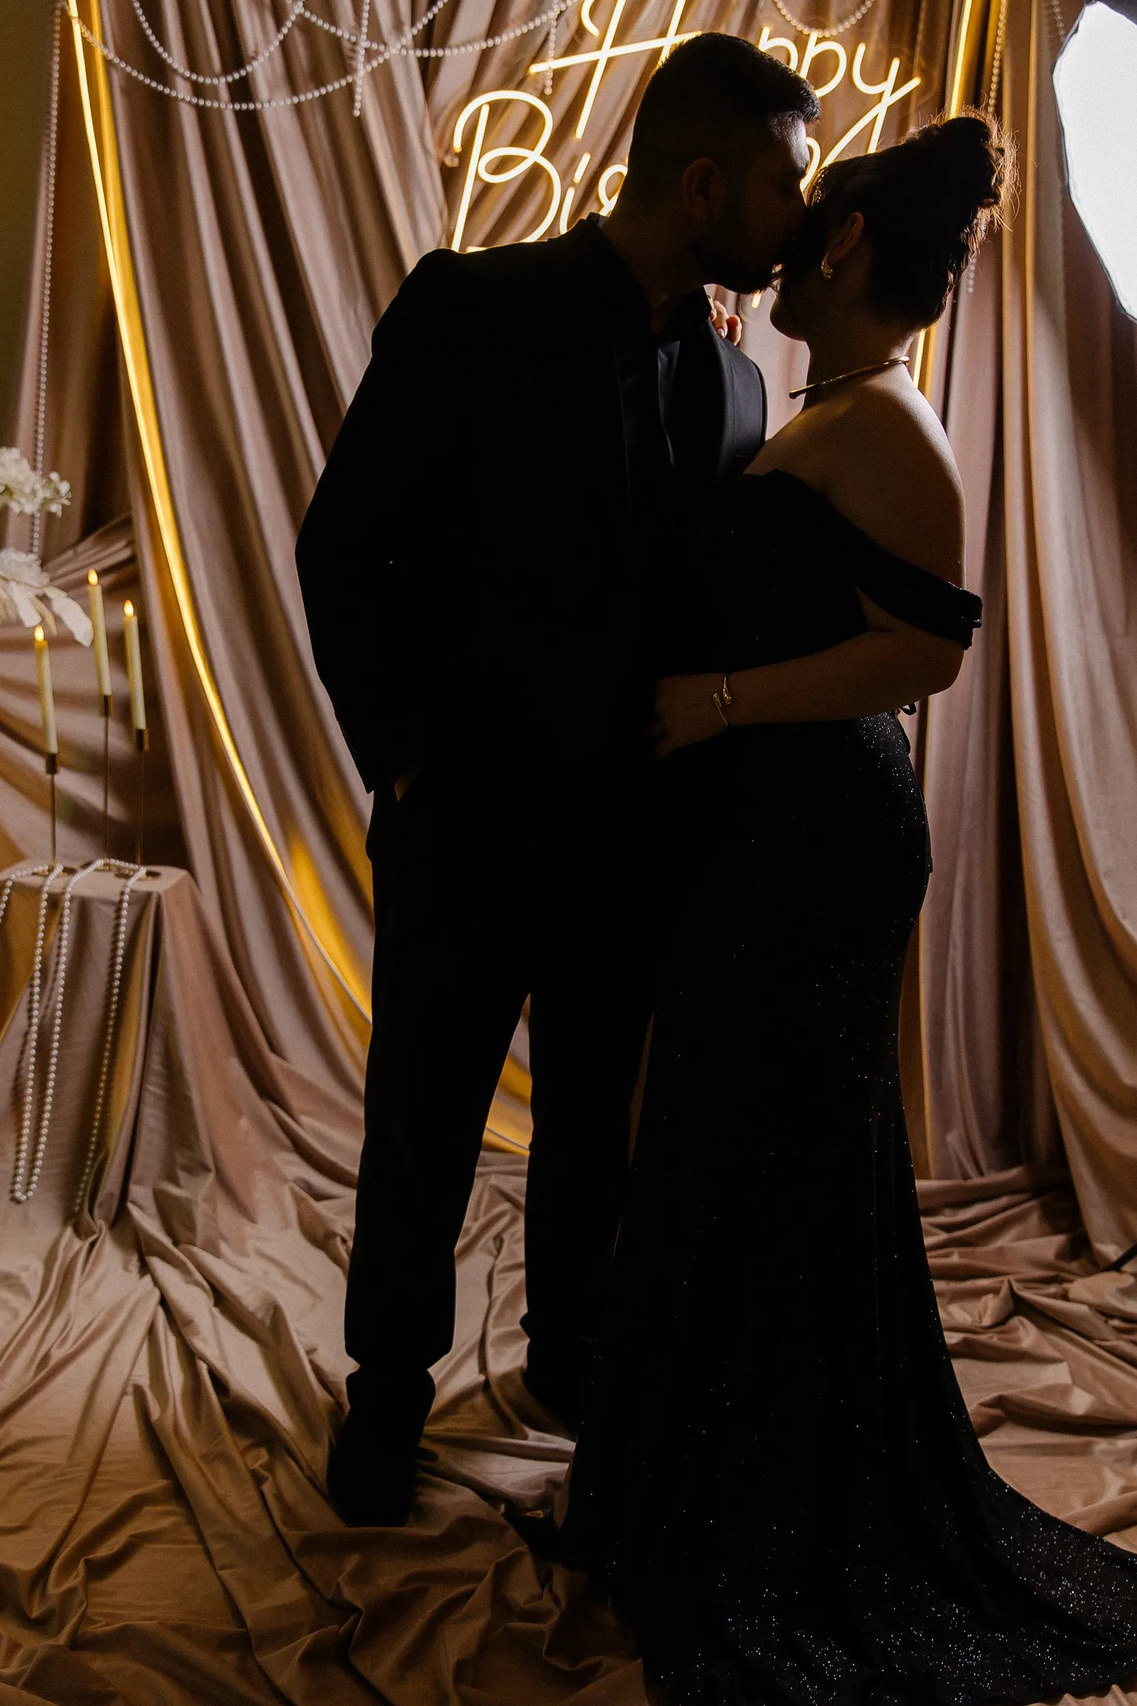
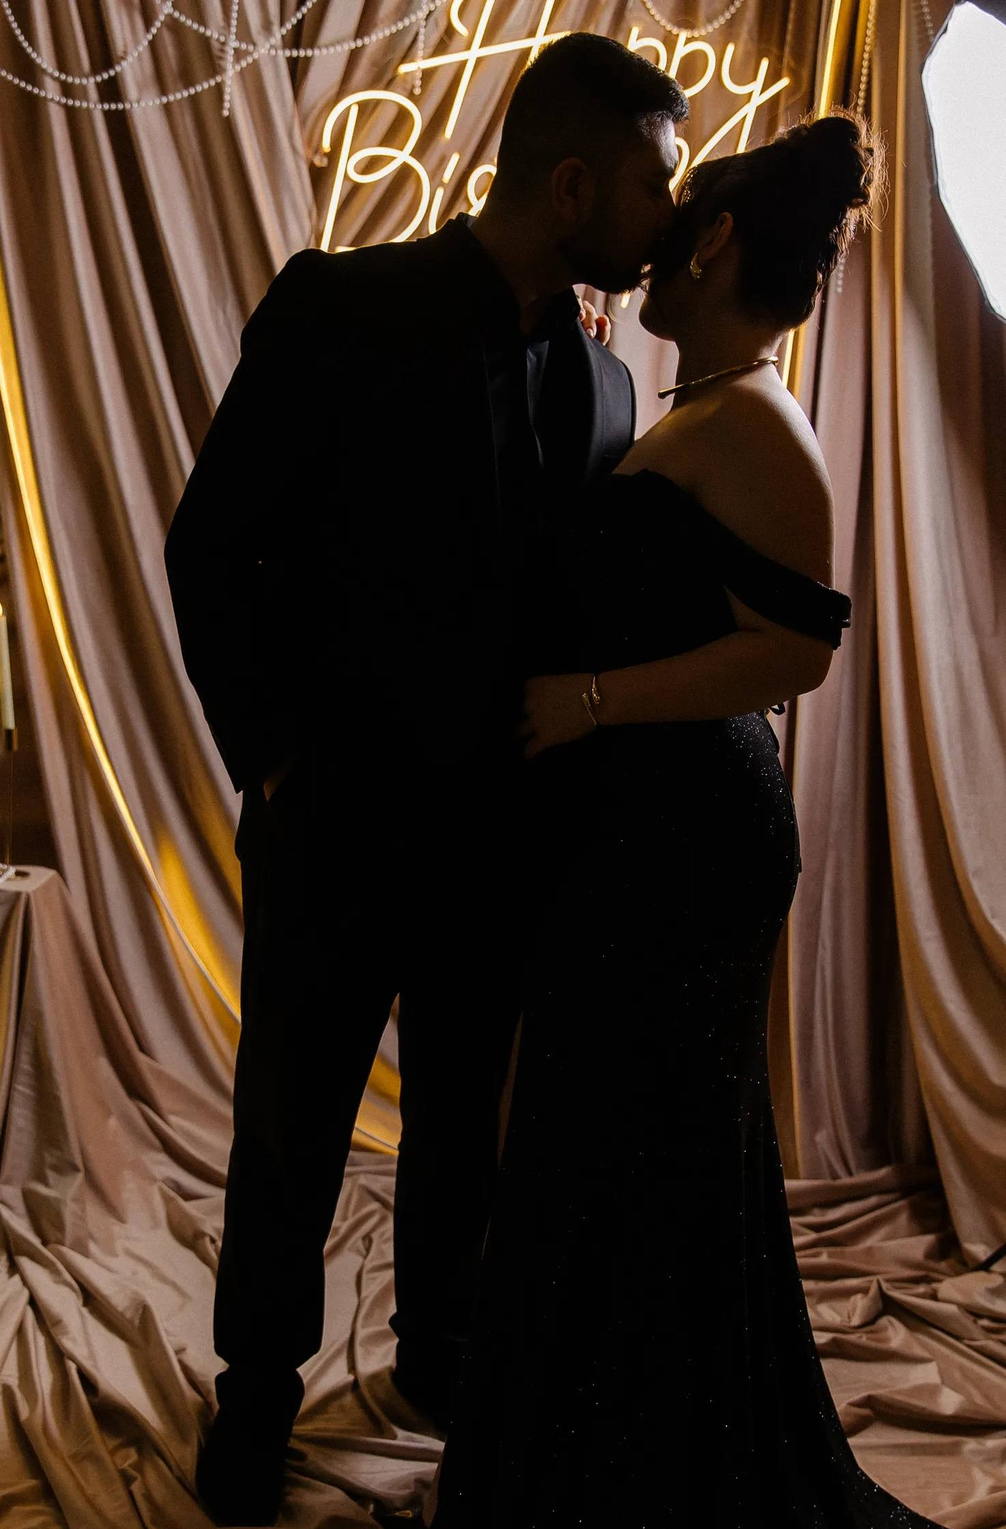
abrc

diff --git a/index.html b/index.html
@@ -3,6 +3,7 @@
 <head>
 <meta charset="UTF-8">
 <meta name="viewport" content="width=device-width, initial-scale=1.0">
+<meta name="robots" content="noindex, nofollow, noarchive">
 <title>Սերգո &amp; Նունե — Հարսանիք / Серго &amp; Нуне — Свадьба</title>
 <meta property="og:title" content="Серго и Нуне — свадебное приглашение">
 <meta property="og:description" content="13 ноября 2026 — приглашаем разделить с нами этот день">
@@ -11,21 +12,21 @@
 <meta name="twitter:card" content="summary">
 <link rel="preconnect" href="https://fonts.googleapis.com">
 <link rel="preconnect" href="https://fonts.gstatic.com" crossorigin>
-<link href="https://fonts.googleapis.com/css2?family=Cormorant+Garamond:ital,wght@0,300;0,400;0,500;0,600;1,300;1,400&family=Playfair+Display:wght@400;500;600&family=Noto+Serif+Armenian:wght@300;400;500;600;700&display=swap" rel="stylesheet">
+<link href="https://fonts.googleapis.com/css2?family=Cormorant+Garamond:ital,wght@0,300;0,400;0,500;0,600;0,700;1,300;1,400;1,500&family=Playfair+Display:wght@400;500;600;700;800&family=Noto+Serif+Armenian:wght@400;500;600;700&display=swap" rel="stylesheet">
 <style>
   *, *::before, *::after { box-sizing: border-box; margin: 0; padding: 0; }
   html { scroll-behavior: smooth; }
 
   :root {
-    --ink: #161513;
-    --charcoal: #0f0e0d;
+    --ink: #4a1420;
+    --charcoal: #2e0c14;
     --paper: #f7f6f2;
     --paper-dim: #efeee9;
     --card: #ffffff;
-    --ash: #7c776c;
-    --ash-soft: #a6a196;
-    --line: #dcd8cf;
-    --line-strong: #161513;
+    --ash: #8a6067;
+    --ash-soft: #b08e93;
+    --line: #e0d5d3;
+    --line-strong: #4a1420;
   }
 
   body {
@@ -64,6 +65,21 @@
   .lang-toggle button.active { background: #f7f6f2; color: #161513; font-weight: 600; }
   @media (max-width: 480px) { .lang-toggle { top: 12px; right: 12px; } .lang-toggle button { padding: 6px 12px; font-size: 13px; } }
 
+  /* ── Music toggle ─────────────────────────── */
+  .music-toggle {
+    position: fixed; bottom: 22px; right: 18px; z-index: 50;
+    width: 48px; height: 48px; border-radius: 50%;
+    background: rgba(74,20,32,0.94); display: flex; align-items: center; justify-content: center;
+    box-shadow: 0 6px 20px rgba(0,0,0,0.22); cursor: pointer; border: none;
+  }
+  .music-toggle svg { width: 20px; height: 20px; fill: #f7f3ee; }
+  .music-toggle .icon-pause { display: none; }
+  .music-toggle.playing .icon-play { display: none; }
+  .music-toggle.playing .icon-pause { display: block; }
+  .music-toggle.playing svg.icon-pause { animation: musicSpin 3.5s linear infinite; }
+  @keyframes musicSpin { from { transform: rotate(0deg); } to { transform: rotate(360deg); } }
+  @media (max-width: 480px) { .music-toggle { bottom: 16px; right: 14px; width: 44px; height: 44px; } }
+
   .invite { max-width: 860px; margin: 0 auto; background: var(--card); }
   @media (min-width: 900px) {
     .invite { margin: 40px auto; border-radius: 4px; overflow: hidden; box-shadow: 0 30px 90px rgba(0,0,0,0.14); }
@@ -88,11 +104,11 @@
   @media (max-width: 480px) { .section { padding: 46px 22px; } }
 
   .eyebrow {
-    font-size: 13px; letter-spacing: 2.5px; color: var(--ash);
+    font-size: 13px; letter-spacing: 2.5px; color: var(--ash); font-weight: 600;
     margin-bottom: 16px; display: inline-block; border-bottom: 1px solid var(--line); padding-bottom: 8px;
   }
   html[data-lang="hy"] .eyebrow { letter-spacing: 0.5px; }
-  .section-title { font-size: clamp(26px, 5vw, 36px); font-weight: 400; color: var(--ink); margin-bottom: 22px; }
+  .section-title { font-size: clamp(26px, 5vw, 36px); font-weight: 600; color: var(--ink); margin-bottom: 22px; }
 
   /* ── Hero ─────────────────── */
   .hero { position: relative; width: 100%; height: 82vh; min-height: 440px; max-height: 620px; overflow: hidden;
@@ -104,29 +120,43 @@
   .hero img { width: 100%; height: 100%; object-fit: cover; object-position: center 22%; display: block; filter: grayscale(100%) contrast(1.05); }
   /* ⬆ object-position: если на реальном фото лица/важная часть обрезаются — поменяйте
      "22%" (0% = верх фото, 50% = центр, 100% = низ фото) под конкретный кадр. */
-  .hero-overlay { position: absolute; inset: 0; background: linear-gradient(to bottom, rgba(0,0,0,0.05) 0%, rgba(0,0,0,0.62) 100%); }
-  .hero-text { position: absolute; bottom: 13%; left: 50%; transform: translateX(-50%); color: #fff; text-align: center; width: 90%; text-shadow: 0 2px 16px rgba(0,0,0,0.55); }
-  .hero-text .eyebrow { color: #e7e5df; border-color: rgba(255,255,255,0.35); }
-  .hero-text .names { font-size: clamp(42px, 10vw, 76px); font-weight: 400; line-height: 1.05; }
-  .hero-text .amp { font-style: italic; font-weight: 300; color: #cfccc3; }
-  .hero-text .date-line { margin-top: 16px; font-size: clamp(14px, 3vw, 17px); letter-spacing: 3px; opacity: .88; }
+  .hero-overlay { position: absolute; inset: 0; background: linear-gradient(to bottom, rgba(0,0,0,0.12) 0%, rgba(0,0,0,0.58) 100%); }
+  .hero-text { position: absolute; inset: 0; color: #fff; text-shadow: 0 2px 16px rgba(0,0,0,0.55); }
+  .mono { position: absolute; font-family: 'Playfair Display', serif; font-weight: 700; line-height: 1; color: #fff; font-size: clamp(70px, 16vw, 150px); }
+  html[data-lang="hy"] .mono { font-family: 'Noto Serif Armenian', serif; }
+  .mono-a { top: 8%; left: 6%; }
+  .mono-b { bottom: 14%; right: 7%; }
+  .vert-names { position: absolute; top: 50%; left: 50%; transform: translate(-50%, -50%) rotate(90deg); white-space: nowrap; font-family: 'Playfair Display', serif; font-size: clamp(18px, 3.6vw, 24px); letter-spacing: 1.5px; font-weight: 700; color: #f7f3ee; }
+  html[data-lang="hy"] .vert-names { font-family: 'Noto Serif Armenian', serif; letter-spacing: 0.5px; }
+  .hero-date { position: absolute; bottom: 6%; left: 50%; transform: translateX(-50%); font-size: clamp(15px, 3vw, 19px); letter-spacing: 3px; font-weight: 600; }
+  @media (max-width: 480px) {
+    .mono { font-size: clamp(56px, 22vw, 96px); }
+    .mono-a { top: 6%; left: 5%; }
+    .mono-b { bottom: 16%; right: 5%; }
+  }
 
-  .greeting p { font-size: clamp(18px, 3.2vw, 22px); color: #3a382f; max-width: 560px; margin: 0 auto; font-style: italic; font-weight: 300; }
+  .greeting p { font-size: clamp(18px, 3.2vw, 22px); color: var(--ink); max-width: 560px; margin: 0 auto; font-style: normal; font-weight: 500; }
   html[data-lang="hy"] .greeting p { font-style: normal; }
   .greeting-rule { width: 40px; height: 1px; background: var(--ink); margin: 26px auto 0; }
 
-  /* ── Calendar ─────────────── */
+  /* ── Calendar (full month grid) ─────────────── */
   .calendar-section { padding: 66px 36px; text-align: center; background: linear-gradient(180deg, #fbfaf7 0%, #efeeea 100%); display: flex; flex-direction: column; align-items: center; }
-  .date-card { display: flex; flex-direction: column; align-items: center; gap: 6px; padding: 42px 58px; background: var(--card); border: 1px solid var(--line); box-shadow: 0 14px 40px rgba(0,0,0,0.10); position: relative; }
-  @media (max-width: 480px) { .date-card { padding: 34px 30px; } }
-  .date-card::before { content: ''; position: absolute; inset: 9px; border: 1px solid var(--ink); opacity: .3; pointer-events: none; }
-  .date-sun { margin-bottom: 6px; color: var(--ash); }
-  .date-month { font-style: italic; font-size: 22px; letter-spacing: 4px; color: #4a473d; margin-bottom: 2px; }
-  html[data-lang="hy"] .date-month { font-style: normal; letter-spacing: 1px; }
-  .date-day { font-family: 'Playfair Display', serif; font-size: clamp(64px, 12vw, 96px); font-weight: 500; line-height: 1; color: var(--ink); }
-  html[data-lang="hy"] .date-day { font-family: 'Noto Serif Armenian', serif; }
-  .date-sub { font-size: 16px; letter-spacing: 2px; text-transform: none; color: var(--ash); margin-top: 6px; }
-  .date-sub .dot { color: var(--ash-soft); padding: 0 6px; }
+  .cal-card { display: flex; flex-direction: column; align-items: center; padding: 40px 30px 34px; background: var(--card); border: 1px solid var(--line); box-shadow: 0 14px 40px rgba(0,0,0,0.10); width: 100%; max-width: 380px; }
+  @media (max-width: 480px) { .cal-card { padding: 32px 16px 26px; } }
+  .cal-month { font-family: 'Playfair Display', serif; font-weight: 700; font-size: clamp(28px, 6vw, 38px); letter-spacing: 4px; color: var(--ink); margin-bottom: 24px; }
+  html[data-lang="hy"] .cal-month { font-family: 'Noto Serif Armenian', serif; letter-spacing: 1px; }
+  .cal-weekdays, .cal-days { display: grid; grid-template-columns: repeat(7, 1fr); width: 100%; }
+  .cal-weekdays { margin-bottom: 14px; }
+  .cal-weekdays span { font-size: clamp(11px, 2.6vw, 13px); font-weight: 600; letter-spacing: 0.5px; color: var(--ash); }
+  .cal-days { row-gap: clamp(10px, 2.8vw, 18px); }
+  .cal-cell { position: relative; font-family: 'Playfair Display', serif; font-weight: 500; font-size: clamp(14px, 3.4vw, 17px); color: var(--ink); display: flex; align-items: center; justify-content: center; height: clamp(28px, 7vw, 34px); }
+  html[data-lang="hy"] .cal-cell { font-family: 'Noto Serif Armenian', serif; }
+  .cal-cell.empty { visibility: hidden; }
+  .cal-cell.highlight { font-weight: 700; }
+  .cal-heart { position: absolute; inset: -6px; color: var(--ink); pointer-events: none; }
+  .cal-heart path { fill: none; stroke: currentColor; stroke-width: 1.3; }
+  .cal-sub { margin-top: 22px; font-size: 16px; letter-spacing: 2px; color: var(--ash); font-weight: 500; }
+  .cal-sub .dot { color: var(--ash-soft); padding: 0 6px; }
 
   /* ── Program timeline ─────────────── */
   .schedule-wrap { max-width: 580px; margin: 0 auto; position: relative; text-align: left; }
@@ -137,7 +167,7 @@
   html[data-lang="hy"] .s-time { font-family: 'Noto Serif Armenian', serif; }
   .s-dot-wrap { flex: 0 0 20px; display: flex; align-items: flex-start; justify-content: center; padding-top: 5px; position: relative; z-index: 1; }
   .s-dot { width: 9px; height: 9px; border-radius: 50%; background: var(--ink); box-shadow: 0 0 0 4px var(--card), 0 0 0 5px var(--line); }
-  .s-desc strong { display: block; font-family: 'Playfair Display', serif; font-size: 17px; font-weight: 500; color: var(--ink); margin-bottom: 3px; }
+  .s-desc strong { display: block; font-family: 'Playfair Display', serif; font-size: 17px; font-weight: 700; color: var(--ink); margin-bottom: 3px; }
   html[data-lang="hy"] .s-desc strong { font-family: 'Noto Serif Armenian', serif; }
   .s-desc span { font-size: 15px; color: var(--ash); }
 
@@ -146,7 +176,7 @@
   .loc-card:first-of-type { border-top: none; }
   @media (max-width: 480px) { .loc-card { padding: 40px 22px; } }
   .loc-tag { font-size: 12px; letter-spacing: 2px; color: var(--ash); margin-bottom: 10px; }
-  .loc-name { font-family: 'Playfair Display', serif; font-size: clamp(21px, 4vw, 26px); font-weight: 500; color: var(--ink); margin-bottom: 8px; }
+  .loc-name { font-family: 'Playfair Display', serif; font-size: clamp(21px, 4vw, 26px); font-weight: 700; color: var(--ink); margin-bottom: 8px; }
   html[data-lang="hy"] .loc-name { font-family: 'Noto Serif Armenian', serif; }
   .loc-address { font-size: 17px; color: #4a473d; margin-bottom: 16px; line-height: 1.55; }
   .map-btn { display: inline-block; padding: 10px 26px; border-radius: 40px; border: 1px solid var(--ink); color: var(--ink); font-family: "Cormorant Garamond", serif; font-size: 15px; letter-spacing: 1.5px; text-decoration: none; transition: background .2s, color .2s; }
@@ -164,7 +194,7 @@
   .countdown { display: flex; justify-content: center; align-items: center; gap: clamp(4px, 2vw, 14px); flex-wrap: nowrap; }
   .countdown-item { text-align: center; }
   .c-ring { width: clamp(44px, 15vw, 84px); height: clamp(44px, 15vw, 84px); border-radius: 50%; background: var(--card); border: 1px solid var(--ink); display: flex; align-items: center; justify-content: center; box-shadow: 0 6px 18px rgba(0,0,0,0.10); flex-shrink: 0; }
-  .c-ring .num { font-family: 'Playfair Display', serif; font-size: clamp(15px, 4.5vw, 32px); font-weight: 500; color: var(--ink); line-height: 1; }
+  .c-ring .num { font-family: 'Playfair Display', serif; font-size: clamp(15px, 4.5vw, 32px); font-weight: 700; color: var(--ink); line-height: 1; }
   html[data-lang="hy"] .c-ring .num { font-family: 'Noto Serif Armenian', serif; }
   .countdown-item .c-label { font-size: clamp(8px, 2.2vw, 12px); letter-spacing: 1px; color: var(--ash); margin-top: clamp(4px, 1.5vw, 10px); white-space: nowrap; }
   .c-divider { color: var(--ash-soft); font-size: clamp(10px, 3vw, 18px); padding-bottom: clamp(12px, 4vw, 24px); flex-shrink: 0; }
@@ -173,13 +203,13 @@
 
   /* ── About us ─────────────── */
   .about-photo-wrap { width: 100%; max-height: 380px; overflow: hidden; }
-  .about-photo-wrap img { width: 100%; height: 100%; object-fit: cover; object-position: center 78%; display: block; filter: grayscale(100%); max-height: 380px; }
+  .about-photo-wrap img { width: 100%; height: 100%; object-fit: cover; object-position: center 42%; display: block; filter: grayscale(100%); max-height: 380px; }
   /* На широких экранах показываем фото целиком, без обрезки */
   @media (min-width: 900px) {
     .about-photo-wrap { background: var(--paper-dim); display: flex; align-items: center; justify-content: center; }
     .about-photo-wrap img { object-fit: contain; object-position: center; }
   }
-  .about-text { max-width: 560px; margin: 0 auto; font-size: 18px; color: #3a382f; }
+  .about-text { max-width: 560px; margin: 0 auto; font-size: 18px; color: var(--ink); font-weight: 500; }
   .about-text p + p { margin-top: 16px; }
 
   /* ── RSVP ─────────────── */
@@ -187,7 +217,7 @@
   @media (max-width: 480px) { .rsvp-wrap { padding: 46px 22px; } }
   .rsvp-card { max-width: 560px; margin: 0 auto; background: var(--paper); border: 1px solid var(--line); border-radius: 4px; padding: 46px 38px; text-align: center; }
   @media (max-width: 480px) { .rsvp-card { padding: 34px 22px; } }
-  .rsvp-title { font-family: 'Playfair Display', serif; font-size: clamp(24px, 4.5vw, 30px); font-weight: 500; color: var(--ink); line-height: 1.3; margin-bottom: 30px; }
+  .rsvp-title { font-family: 'Playfair Display', serif; font-size: clamp(24px, 4.5vw, 30px); font-weight: 700; color: var(--ink); line-height: 1.3; margin-bottom: 30px; }
   html[data-lang="hy"] .rsvp-title { font-family: 'Noto Serif Armenian', serif; }
   .rsvp-form { text-align: left; display: flex; flex-direction: column; gap: 22px; }
   .rsvp-label { display: block; font-size: 15px; color: #333; margin-bottom: 9px; font-weight: 500; }
@@ -222,7 +252,7 @@
     .ending-photo-wrap img { object-fit: contain; object-position: center; }
   }
   .ending-text { padding: 0 32px 66px; text-align: center; background: var(--card); }
-  .waiting { font-size: clamp(32px, 7vw, 52px); font-weight: 400; color: var(--ink); }
+  .waiting { font-size: clamp(32px, 7vw, 52px); font-weight: 700; color: var(--ink); }
   .couple-sig { margin-top: 10px; font-size: 18px; color: var(--ash); letter-spacing: 1.5px; }
   .ending-rule { width: 40px; height: 1px; background: var(--ink); margin: 22px auto 0; }
 </style>
@@ -235,6 +265,13 @@
   <button type="button" id="btn-hy">ՀԱՅ</button>
 </div>
 
+<!-- ⬇ Загрузите файл музыки с именем music.mp3 в ту же папку, где лежит index.html -->
+<audio id="bgMusic" src="music.mp3" loop preload="none"></audio>
+<button type="button" class="music-toggle" id="musicToggle" aria-label="Музыка">
+  <svg class="icon-play" viewBox="0 0 24 24"><path d="M8 5v14l11-7z"/></svg>
+  <svg class="icon-pause" viewBox="0 0 24 24"><path d="M12 2a10 10 0 1 0 10 10h-2a8 8 0 1 1-8-8z"/><circle cx="12" cy="12" r="2.4"/></svg>
+</button>
+
 <div class="invite">
 
   <!-- HERO -->
@@ -242,12 +279,14 @@
     <img src="hero-photo.jpg" alt="Серго и Нуне" fetchpriority="high" decoding="async">
     <div class="hero-overlay"></div>
     <div class="hero-text">
-      <p class="eyebrow lang-ru">Свадебное приглашение</p>
-      <p class="eyebrow lang-hy">Հարսանեկան հրավեր</p>
-      <h1 class="names lang-ru">Серго <span class="amp">&amp;</span> Нуне</h1>
-      <h1 class="names lang-hy">Սերգո <span class="amp">&amp;</span> Նունե</h1>
-      <p class="date-line lang-ru">13 ноября 2026</p>
-      <p class="date-line lang-hy">13 նոյեմբերի, 2026</p>
+      <span class="mono mono-a lang-ru">С</span>
+      <span class="mono mono-a lang-hy">Ս</span>
+      <span class="vert-names lang-ru">СЕРГО &amp; НУНЕ</span>
+      <span class="vert-names lang-hy">ՍԵՐԳՈ &amp; ՆՈՒՆԵ</span>
+      <span class="mono mono-b lang-ru">Н</span>
+      <span class="mono mono-b lang-hy">Ն</span>
+      <div class="hero-date lang-ru">13.11.2026</div>
+      <div class="hero-date lang-hy">13.11.2026</div>
     </div>
   </div>
 
@@ -264,13 +303,67 @@
   <div class="calendar-section">
     <span class="eyebrow lang-ru">Сохраните дату</span>
     <span class="eyebrow lang-hy">Պահպանեք ամսաթիվը</span>
-    <div class="date-card reveal-zoom">
-      <svg class="sun date-sun" viewBox="0 0 24 24"><circle cx="12" cy="12" r="4.2"/><path d="M12 1v3M12 20v3M23 12h-3M4 12H1M19.8 4.2l-2.1 2.1M6.3 17.7l-2.1 2.1M19.8 19.8l-2.1-2.1M6.3 6.3L4.2 4.2"/></svg>
-      <div class="date-month lang-ru">Ноябрь</div>
-      <div class="date-month lang-hy">Նոյեմբեր</div>
-      <div class="date-day">13</div>
-      <div class="date-sub lang-ru">Пятница<span class="dot">·</span>2026</div>
-      <div class="date-sub lang-hy">Ուրբաթ<span class="dot">·</span>2026</div>
+    <div class="cal-card reveal-zoom">
+      <div class="cal-month lang-ru">Ноябрь</div>
+      <div class="cal-month lang-hy">Նոյեմբեր</div>
+
+      <div class="cal-weekdays lang-ru">
+        <span>ПН</span><span>ВТ</span><span>СР</span><span>ЧТ</span><span>ПТ</span><span>СБ</span><span>ВС</span>
+      </div>
+      <div class="cal-weekdays lang-hy">
+        <span>ԵՐԿ</span><span>ԵՐՔ</span><span>ՉՈՐ</span><span>ՀՆԳ</span><span>ՈՒՐ</span><span>ՇԲԹ</span><span>ԿԻՐ</span>
+      </div>
+
+      <div class="cal-days">
+        <span class="cal-cell empty"></span>
+        <span class="cal-cell empty"></span>
+        <span class="cal-cell empty"></span>
+        <span class="cal-cell empty"></span>
+        <span class="cal-cell empty"></span>
+        <span class="cal-cell empty"></span>
+        <span class="cal-cell">1</span>
+        <span class="cal-cell">2</span>
+        <span class="cal-cell">3</span>
+        <span class="cal-cell">4</span>
+        <span class="cal-cell">5</span>
+        <span class="cal-cell">6</span>
+        <span class="cal-cell">7</span>
+        <span class="cal-cell">8</span>
+        <span class="cal-cell">9</span>
+        <span class="cal-cell">10</span>
+        <span class="cal-cell">11</span>
+        <span class="cal-cell">12</span>
+        <span class="cal-cell highlight">
+          13
+          <svg class="cal-heart" viewBox="0 0 40 40"><path d="M20 30 C10 22 6 16 6 11 C6 6 10 3 14 5 C17 6.5 19 9 20 11 C21 9 23 6.5 26 5 C30 3 34 6 34 11 C34 16 30 22 20 30 Z"/></svg>
+        </span>
+        <span class="cal-cell">14</span>
+        <span class="cal-cell">15</span>
+        <span class="cal-cell">16</span>
+        <span class="cal-cell">17</span>
+        <span class="cal-cell">18</span>
+        <span class="cal-cell">19</span>
+        <span class="cal-cell">20</span>
+        <span class="cal-cell">21</span>
+        <span class="cal-cell">22</span>
+        <span class="cal-cell">23</span>
+        <span class="cal-cell">24</span>
+        <span class="cal-cell">25</span>
+        <span class="cal-cell">26</span>
+        <span class="cal-cell">27</span>
+        <span class="cal-cell">28</span>
+        <span class="cal-cell">29</span>
+        <span class="cal-cell">30</span>
+        <span class="cal-cell empty"></span>
+        <span class="cal-cell empty"></span>
+        <span class="cal-cell empty"></span>
+        <span class="cal-cell empty"></span>
+        <span class="cal-cell empty"></span>
+        <span class="cal-cell empty"></span>
+      </div>
+
+      <div class="cal-sub lang-ru">Пятница<span class="dot">·</span>2026</div>
+      <div class="cal-sub lang-hy">Ուրբաթ<span class="dot">·</span>2026</div>
     </div>
   </div>
 
@@ -468,7 +561,7 @@
           </label>
           <textarea class="rsvp-textarea" id="rsvp-family" name="family"
                     placeholder="Имя и фамилия"
-                    data-ph-ru="Например: Анна, Давид " data-ph-hy="Օրինակ՝ Աննա, Դավիթ "></textarea>
+                    data-ph-ru="Например: Анна Петросян, Давид Петросян" data-ph-hy="Օրինակ՝ Աննա Պետրոսյան, Դավիթ Պետրոսյան"></textarea>
         </div>
 
         <div class="rsvp-note">
@@ -523,6 +616,24 @@
     btnRu.addEventListener('click', function () { setLang('ru'); });
     btnHy.addEventListener('click', function () { setLang('hy'); });
     applyPlaceholders('ru');
+  })();
+
+  // ── MUSIC TOGGLE ─────────────
+  (function () {
+    var audio = document.getElementById('bgMusic');
+    var btn = document.getElementById('musicToggle');
+    var playing = false;
+
+    btn.addEventListener('click', function () {
+      if (playing) {
+        audio.pause();
+        btn.classList.remove('playing');
+      } else {
+        audio.play().catch(function () { /* файл музыки ещё не загружен */ });
+        btn.classList.add('playing');
+      }
+      playing = !playing;
+    });
   })();
 
   // ── COUNTDOWN ─────────────
@@ -581,7 +692,7 @@
     var submitBtn   = form.querySelector('.rsvp-submit');
 
     // ⬇ ВСТАВЬ СЮДА URL своего веб-приложения из Apps Script
-    var SCRIPT_URL = 'https://script.google.com/macros/s/AKfycbxrjKEd2WtJ3uaQOvo5kOFFtXGm2Xiw4CUhEZ4o55Oc9MwMMdIVCD2SfCAXFpSapRUJhA/exec';
+    var SCRIPT_URL = 'ВАШ_APPS_SCRIPT_URL';
 
     document.querySelectorAll('input[name="attending"]').forEach(function (radio) {
       radio.addEventListener('change', function () {
